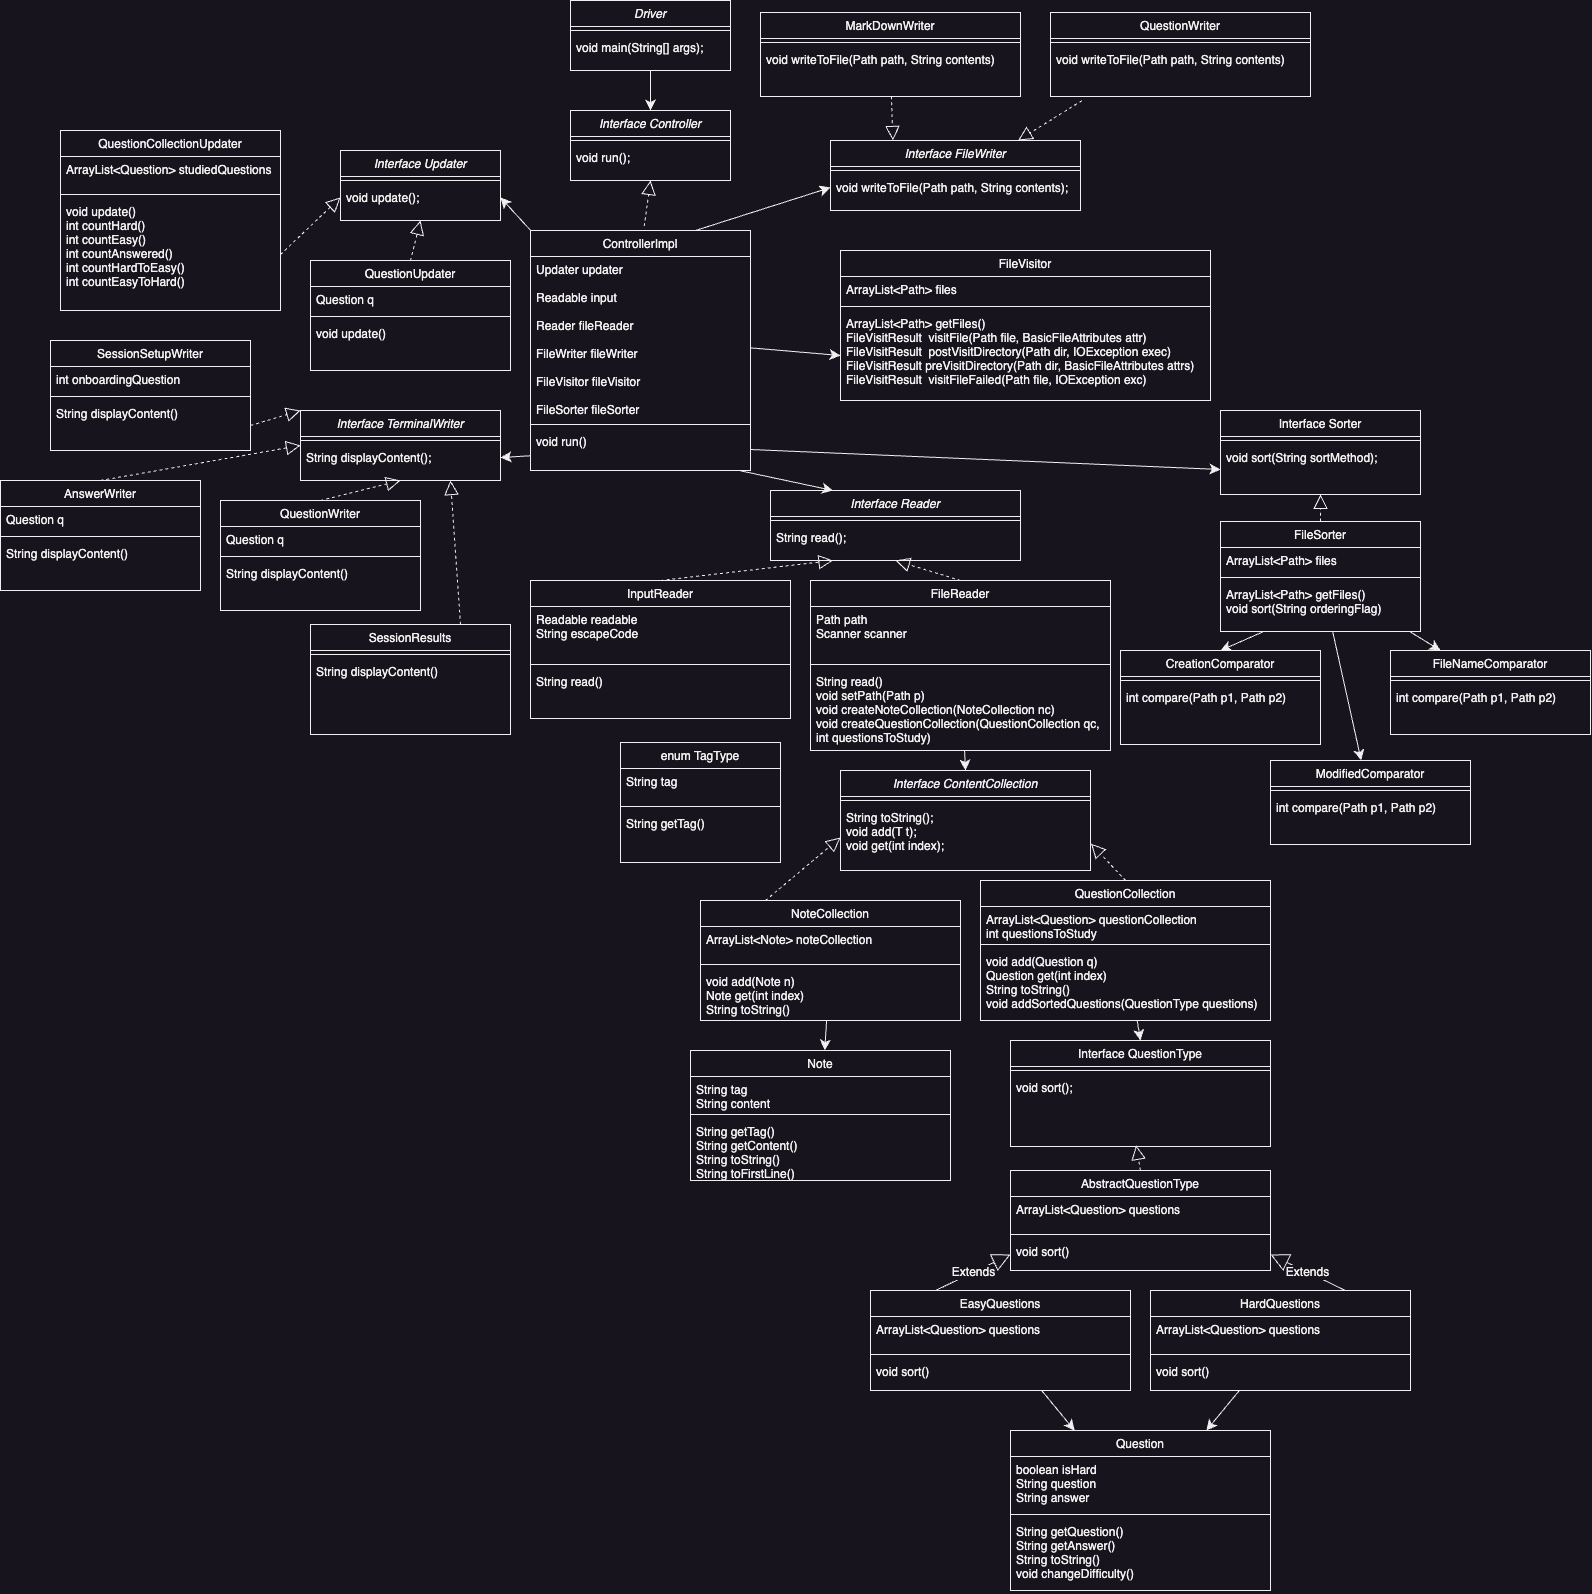
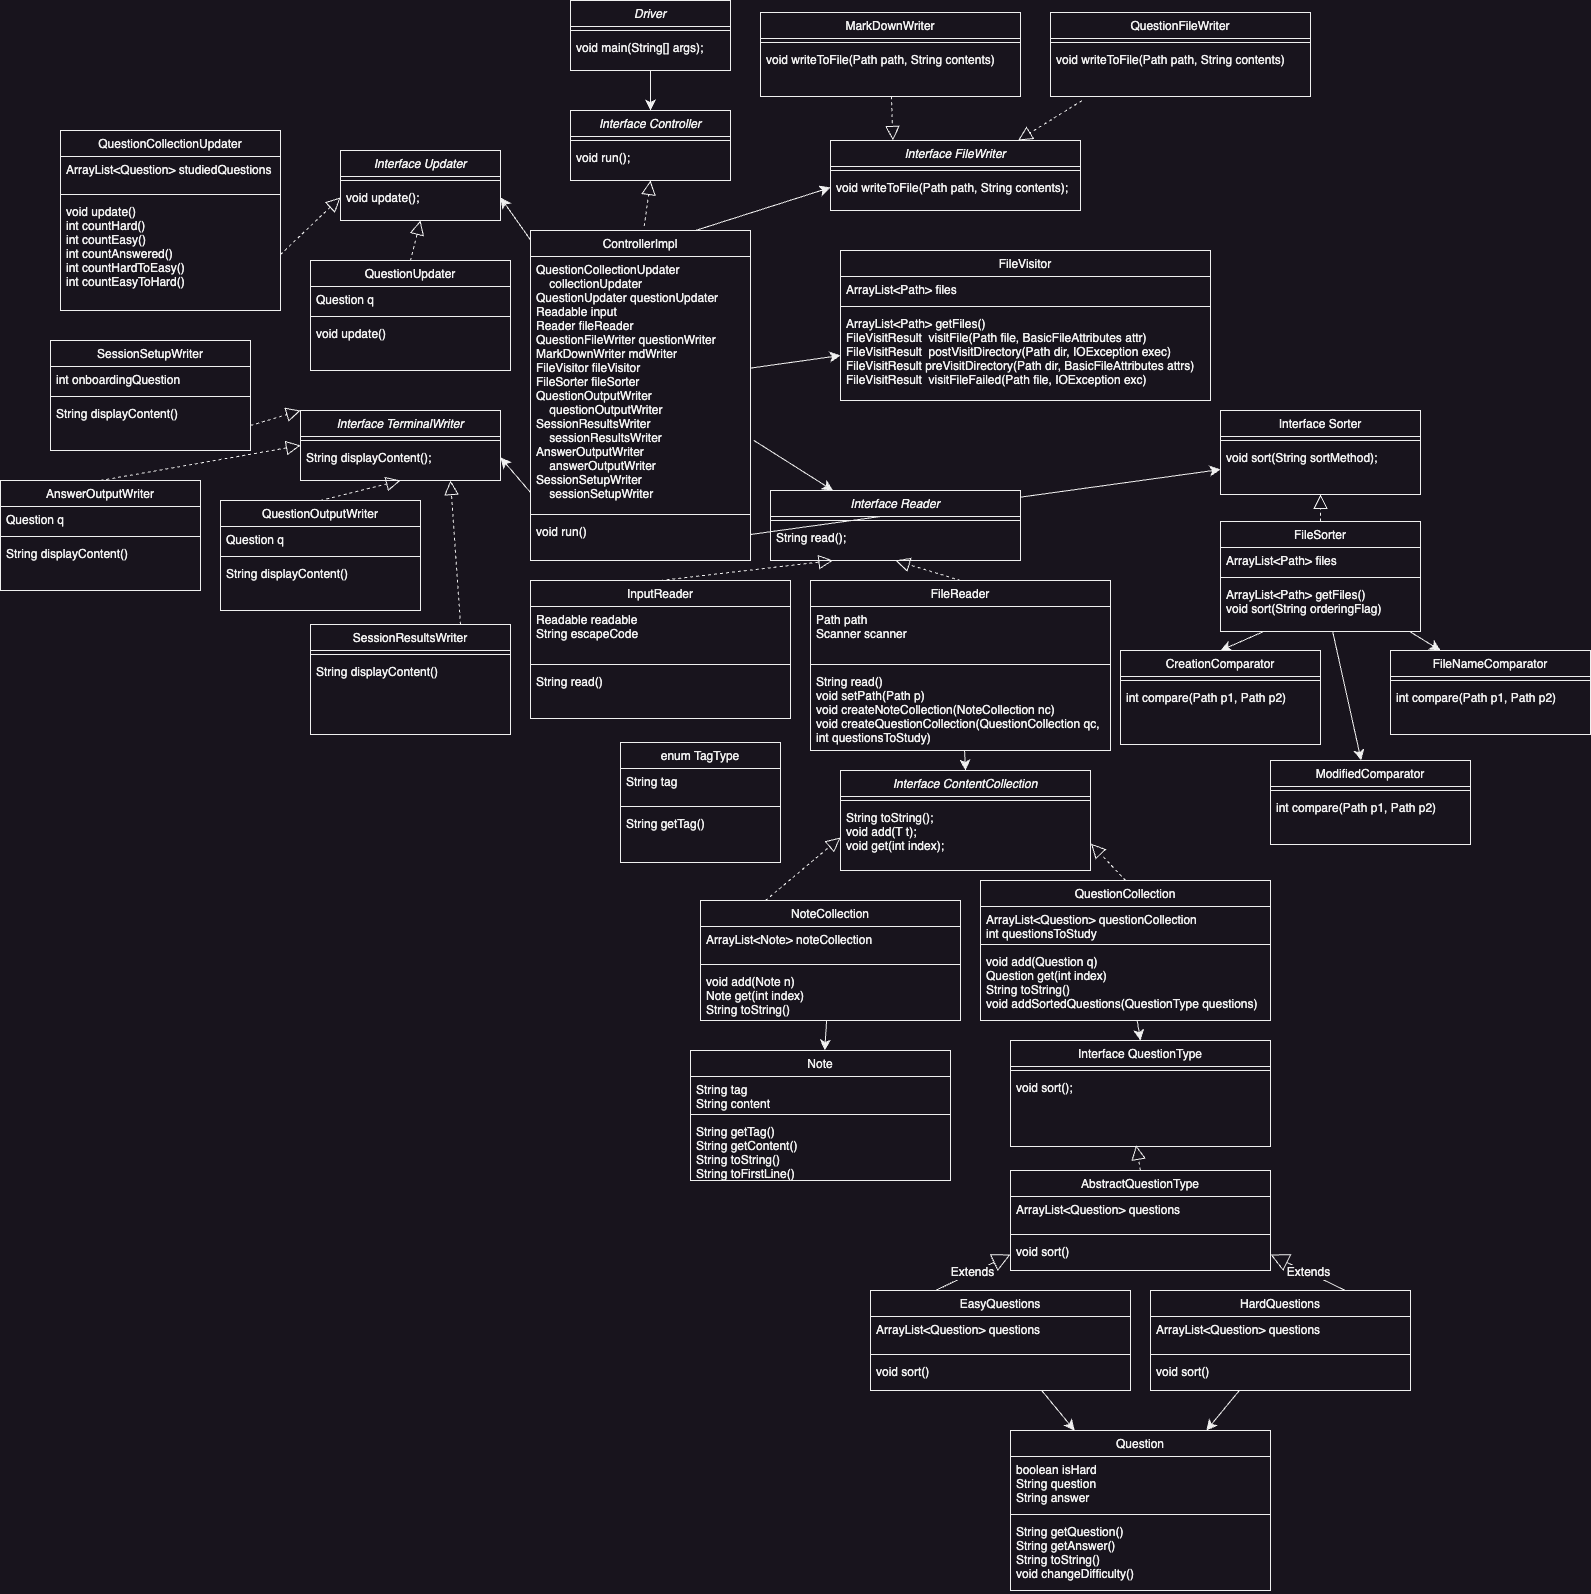
UML diagram and sample sr file added

diff --git a/Questions.md b/Questions.md
@@ -1,0 +1,30 @@
+1. [[What is the capital of Canada?:::The capital is Ottawa.]]
+2. [[Which country is known as the Land of the Rising Sun?:::Japan.]]
+3. [[What is the largest river in Africa?:::The largest river is the Nile River.]]
+4. [[What is the tallest mountain in North America?:::The tallest mountain is Denali (also known as Mount McKinley).]]
+5. [[Which continent is the driest inhabited continent on Earth?:::Australia.]]
+6. [[What is the longest river in South America?:::The longest river is the Amazon River.]]
+7. [[Which country is known as the Land Down Under?:::Australia.]]
+8. [[What is the highest waterfall in the world?:::The highest waterfall is Angel Falls in Venezuela.]]
+9. [[Which country is the largest in terms of land area?:::The largest country is Russia.]]
+10. What is the first element of the periodic table? ::: Hydrogen!
+11. [[Which continent is known as the "Roof of the World"?:::Asia.]]
+12. [[What is the largest desert in Asia?:::The largest desert is the Gobi Desert.]]
+13. [[Which country is the smallest in terms of land area?:::The smallest country is Vatican City.]]
+14. [[What is the official language of Brazil?:::The official language is Portuguese.]]
+15. [[Which city is located on two continents?:::Istanbul, Turkey. It is located on both Europe and Asia.]]
+16. [[What is the largest island in the world?:::The largest island is Greenland.]]
+17. [[Which country is known as the Land of Fire and Ice?:::Iceland.]]
+18. [[What is the longest river in Europe?:::The longest river is the Volga River.]]
+19. [[Which country is famous for its tulips and windmills?:::The Netherlands.]]
+20. [[What is the capital of Argentina?:::The capital is Buenos Aires.]]
+21. [[Which country is known as the Land of a Thousand Lakes? ::: Finland.]]
+22. [[What is the largest lake in Africa?::: The largest lake is Lake Victoria.]]
+23. [[Which country is located in both Europe and Asia?:::Russia.]]
+24. [[What is the official language of Japan?:::The official language is Japanese.]]
+25. [[Which country is the driest inhabited continent on Earth?:::Australia.]]
+26. [[What is the largest coral reef system in the world?:::The largest coral reef system is the Great Barrier Reef in Australia.]]
+27. [[Which country is known as the Land of the Midnight Sun?:::Norway.]]
+28. [[What is the largest lake in North America? ::: The largest lake is Lake Superior.]]
+29. [[Which country is famous for its fjords? ::: Norway.]]
+30. [[What is the capital of Mexico? ::: The capital is Mexico City.]]
